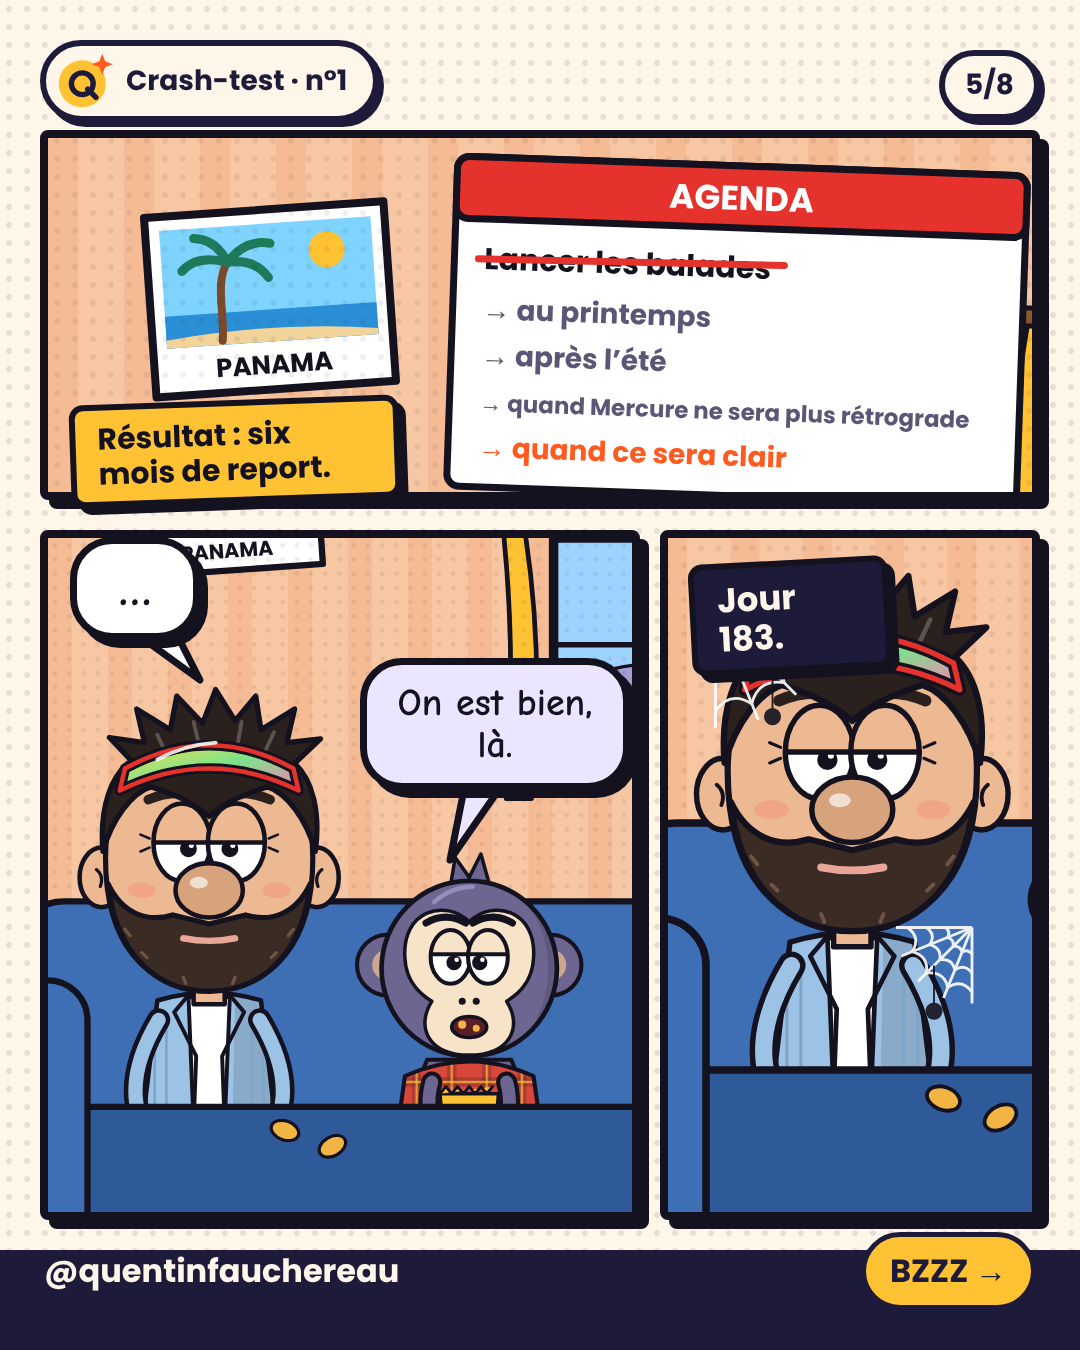
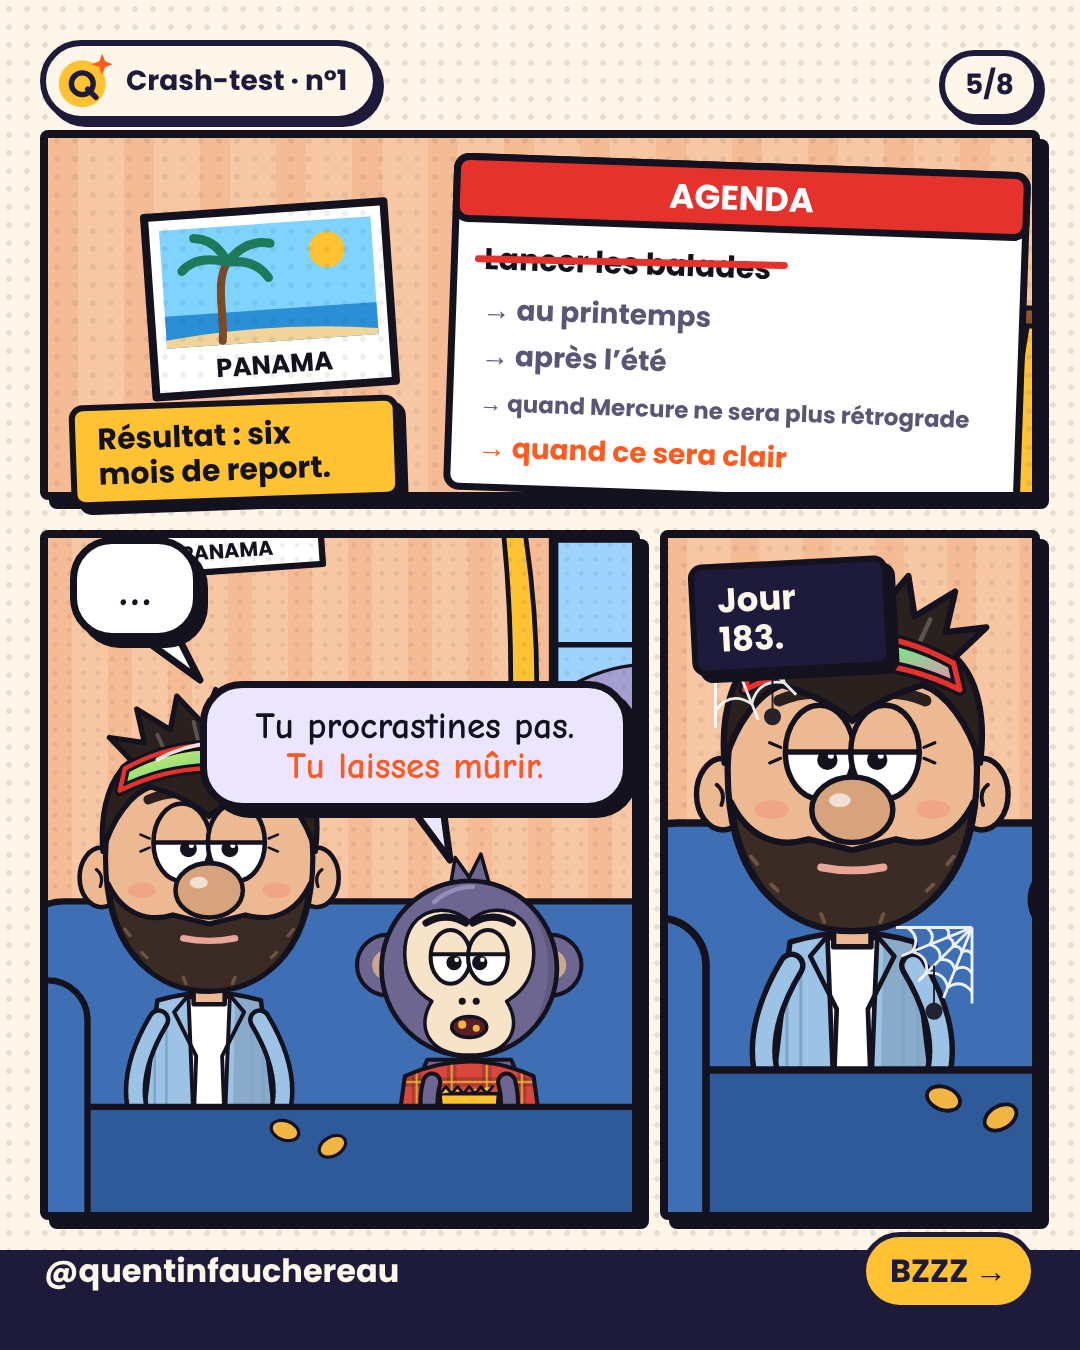
Aiguise Brutus et prépare la publication des trois premiers carrousels
Répliques de Brutus plus tranchantes (41, 43, 45), petit texte de décor
retiré, légendes réécrites avec accroche, commentaire à épingler et
musique à ajouter dans l'app. Calendrier : 23, 26 et 29 novembre,
programmation manuelle (la musique ne s'ajoute que dans l'app).
Leviers psychologiques notés dans la bible.

Claude-Session: https://claude.ai/code/session_01Ur5KmPTCazZvb9fFnorLVu

Changed region(s): [[0.1833, 0.4667, 0.5806, 0.6533]]

diff --git a/episodes/43-radar-soupir.js b/episodes/43-radar-soupir.js
@@ -10,7 +10,7 @@ const rayonX = (cx = 224, cy = 1000, k = 1) => `<g transform="translate(${cx} ${
   <path d="M 12 -40 c -14 -20 -40 -6 -26 14 l 26 24 l 26 -24 c 14 -20 -12 -34 -26 -14 Z" fill="#E5322D" ${st(4)}/>
   <path d="M -24 60 c 20 -30 50 -10 30 10 c -20 20 -50 0 -30 -10 c 30 -20 60 10 40 20" fill="none" stroke="#C9A36A" stroke-width="9" stroke-linecap="round"/></g>`;
 const pause = (x, y, r = 90) => `<g transform="translate(${x} ${y})"><circle r="${r * 1.7}" fill="#E5322D" opacity=".18"/><circle r="${r}" fill="#E5322D" ${st(8)}/><rect x="${-r * 0.42}" y="${-r * 0.48}" width="${r * 0.28}" height="${r * 0.96}" rx="6" fill="#fff"/><rect x="${r * 0.14}" y="${-r * 0.48}" width="${r * 0.28}" height="${r * 0.96}" rx="6" fill="#fff"/></g>`;
-const bouclier = `<path d="M -80 -90 H 80 V 10 Q 80 80 0 110 Q -80 80 -80 10 Z" fill="#9C98AE" ${st(7)}/><text y="0" text-anchor="middle" font-family="Poppins" font-weight="700" font-size="26" fill="${I}">ANTI</text><text y="32" text-anchor="middle" font-family="Poppins" font-weight="700" font-size="26" fill="${I}">MAIL</text>`;
+const bouclier = `<path d="M -80 -90 H 80 V 10 Q 80 80 0 110 Q -80 80 -80 10 Z" fill="#9C98AE" ${st(7)}/><path d="M 0 -60 V 80 M -50 0 H 50" stroke="${I}" stroke-width="8" opacity=".35"/>`;
 const envoyer = `<rect x="-100" y="-130" width="200" height="70" rx="16" fill="#E5322D" ${st(5)}/><text y="-84" text-anchor="middle" font-family="Poppins" font-weight="700" font-size="30" fill="#fff">ENVOYER</text><path d="M -110 -160 h 220 M -110 -40 h 160" stroke="#C9C3D6" stroke-width="10" stroke-linecap="round"/>`;
 const etape = (n, t, y) => `<div class="abs" style="left:48px;top:${y}px;width:984px;display:flex;gap:26px;align-items:center;background:#fff;border:7px solid ${I};border-radius:26px;box-shadow:9px 9px 0 ${I};padding:22px 28px;font-family:Poppins;font-weight:700;font-size:44px;line-height:1.1;color:${I}">
   <span style="flex:none;width:90px;height:90px;border-radius:50%;background:${C.soleil};border:6px solid ${I};display:flex;align-items:center;justify-content:center;font-size:48px">${n}</span><span>${t}</span></div>`;
@@ -56,7 +56,8 @@ module.exports = {
         <div>${so('●')} Cœur qui s’emballe</div><div>${so('●')} Souffle court et haut</div><div>${so('●')} Ventre noué</div></div>
       ${narr('C’est ton système nerveux en mode alarme. Pas un défaut.', { x: 540, y: 740, w: 460, size: 26, bg: C.creme, rot: 1 })}
       ${S(`${G.quentin({ x: 60, y: 570, arms: 'down', brows: 'sad', mouth: 'flat', eyes: { lid: 0.2 } })}${rayonX()}${G.brutus({ x: 800, y: 900, s: 0.46, arms: 'hold', hold: bouclier, casque: true, mouth: 'flat', brows: 'angry', eyes: { px: -6 } })}`)}
-      ${ono('BOUM BOUM', { x: 290, y: 840, size: 50, rot: -8, fill: '#E5322D' })}`),
+      ${ono('BOUM BOUM', { x: 290, y: 840, size: 50, rot: -8, fill: '#E5322D' })}
+      ${bulle({ x: 400, yb: 1150, w: 400, who: 'b', size: 32, to: tb({ x: 800, y: 900, s: 0.46 }), text: 'Un mail. <b>Le prédateur n°1 de la savane.</b>' })}`),
 
     // 5 — La fiche (à enregistrer)
     s(5, 'On essaie ? →', `<div class="abs" style="inset:0;background:${C.creme}"></div>${G.dots(0.1)}

diff --git a/episodes/41-crash-balade-fantome.js b/episodes/41-crash-balade-fantome.js
@@ -81,7 +81,7 @@ module.exports = {
       ])}
       ${narr('Résultat : six mois de report.', { x: 70, y: 400, w: 330, size: 30, rot: -2 })}
       ${bulle({ x: 70, yb: 640, w: 130, size: 50, to: [200, 680], text: '…' })}
-      ${bulle({ x: 360, yb: 790, w: 270, size: 38, who: 'b', to: [450, 860], text: 'On est bien, là.' })}
+      ${bulle({ x: 200, yb: 810, w: 430, size: 37, who: 'b', to: [450, 860], text: 'Tu procrastines pas. <b>Tu laisses mûrir.</b>' })}
       ${narr('Jour 183.', { x: 690, y: 560, w: 200, size: 34, bg: C.nuit, color: C.creme, rot: -3 })}`),
 
     // 6 — La bascule.
@@ -109,6 +109,6 @@ module.exports = {
       ${big(`On n’est jamais prêt. ${fl('On envoie quand même.')}`, 64, 222)}
       ${actions({ y: 430, mot: 'ENVOYÉ', pourquoi: 'quand tu as envoyé le message que tu repousses depuis des semaines', envoie: 'l’ami qui repousse tout « au printemps »', enregistre: 'pour ton prochain report' })}
       ${S(`${G.quentin({ x: 30, y: 930, s: 0.48, arms: { l: 'hip', r: 'point' }, mouth: 'grin', eyes: { px: 8, py: -8 } })}${G.brutus({ x: 820, y: 1000, s: 0.5, arms: 'down', brows: 'sad', mouth: 'wobble', eyes: { px: -8, py: -6 }, sweat: true })}`)}
-      ${bulle({ x: 330, yb: 1110, w: 440, who: 'b', size: 32, to: tb({ x: 820, y: 1000, s: 0.5 }), text: 'J’ai ajouté « désolé du dérangement ».' })}`),
+      ${bulle({ x: 330, yb: 1110, w: 440, who: 'b', size: 32, to: tb({ x: 820, y: 1000, s: 0.5 }), text: 'J’ai ajouté « désolé du dérangement ». <b>Deux fois.</b>' })}`),
   ],
 };

diff --git a/episodes/45-fable-meunier.js b/episodes/45-fable-meunier.js
@@ -29,7 +29,7 @@ module.exports = {
       ${S(`${G.quentin({ ...Q, arms: { l: 'down', r: 'phone' }, mouth: 'grin', eyes: { px: 8, py: 10 } })}${ane()}${G.brutus({ ...B, arms: 'hip', mouth: 'wobble', brows: 'sad', eyes: { px: -8 } })}`)}
       ${G.avantPlan()}
       ${bulle({ x: 260, yb: 520, w: 440, size: 38, to: tq(Q, 40), text: 'On vend l’âne. <b>Et je poste une story.</b>' })}
-      ${bulle({ x: 740, yb: 650, w: 290, who: 'b', size: 38, to: tb(B), text: 'Je le sens mal.' })}`),
+      ${bulle({ x: 650, yb: 650, w: 390, who: 'b', size: 34, to: tb(B), text: 'Une story ? <b>Avec ta tête du matin ?</b>' })}`),
 
     // 3
     s(3, 'Brutus monte →', `${G.saleve2()}
@@ -68,7 +68,7 @@ module.exports = {
       ${com({ y: 390, w: 600, pseudo: '@coach_millionnaire', text: `Mon programme règle ça aussi.`, likes: '1', color: C.soleil, rot: -1, size: 28 })}
       ${S(porter())}
       ${G.avantPlan()}
-      ${bulle({ x: 690, yb: 660, w: 350, who: 'b', size: 34, to: tb({ x: 700, y: 680, s: 0.68 }), text: 'On aurait dû rester <b>sans réseau.</b>' })}`),
+      ${bulle({ x: 690, yb: 660, w: 350, who: 'b', size: 34, to: tb({ x: 700, y: 680, s: 0.68 }), text: 'Bravo. Enfin unanimes : <b>on est ridicules.</b>' })}`),
 
     // 8 — Action
     s(8, 'Partage-le ↗', `${G.saleve2({ mood: 'or' })}

diff --git a/carrousels/41-crash-balade-fantome/legende.md b/carrousels/41-crash-balade-fantome/legende.md
@@ -1,17 +1,31 @@
 # Crash-test n°1 — « La balade fantôme »
 
-Ce singe m'a fait perdre six mois. Et je l'ai laissé faire.
+Ce singe m'a fait perdre 6 mois. Et le pire, c'est que je lui ai dit merci.
 
-J'ai créé une balade pour débloquer les gens. Puis je l'ai repoussée « au printemps », « après l'été », « quand ce sera plus clair ». Brutus, mon chimpanzé intérieur, avait toujours une excellente raison : la pluie, l'inconnu, un écureuil louche.
+Lui, c'est Brutus. Mon chimpanzé intérieur. Garde du corps. Parano. Expert en excuses.
 
-Il ne voulait pas me saboter. Il voulait que rien ne change.
+J'ai créé une balade pour aider les gens à se débloquer.
+Puis je l'ai repoussée.
+« Au printemps. »
+« Après l'été. »
+« Quand ce sera plus clair. »
 
-👉 Commente ENVOYÉ quand tu as envoyé le message que tu repousses depuis des semaines.
+Spoiler : ce n'est jamais plus clair. On appelle ça « laisser mûrir ». Brutus appelle ça « gagner ».
+
+Ce qu'il m'a fallu six mois pour comprendre : Brutus ne veut pas que j'échoue. Il veut que rien ne change. Pour lui, un mardi différent, c'est un tigre à dents de sabre.
+
+👉 Commente ENVOYÉ quand tu as envoyé LE message que tu repousses depuis des semaines. Sans « désolé du dérangement ».
 📩 Envoie ce carrousel à l'ami qui repousse tout « au printemps ».
+🔖 Enregistre-le pour ton prochain report.
 
-La balade déclic : 1 h 30 à la Maison du Salève. Envoie-moi DÉCLIC en message.
+Et toi, ton Brutus te fait repousser quoi en ce moment ?
 
-#oser #procrastination #creation #systemenerveux #saleve #geneve
+#procrastination #oser #passeralaction #confianceensoi #entrepreneur #creation #bd #saleve
 
 ## Commentaire à épingler
-Moi, c'était le lancement des balades. Et toi, c'est quoi le truc que ton Brutus te fait repousser ? 👇
+Moi, c'était le lancement de mes balades. 183 jours. Et toi, c'est quoi le truc que ton Brutus te fait repousser ? 👇
+
+## Musique (à ajouter dans l'app, volume bas)
+Ambiance : comique, sournoise, pizzicato (le pas feutré de quelqu'un qui évite quelque chose).
+1. « The Pink Panther Theme » — Henry Mancini (si elle est proposée sur ton compte).
+2. Sinon, cherche « sneaky » ou « pizzicato » dans la bibliothèque musicale.

diff --git a/carrousels/43-radar-soupir/legende.md b/carrousels/43-radar-soupir/legende.md
@@ -2,16 +2,32 @@
 
 Ton corps a un bouton pause. Personne ne te l'a jamais montré.
 
-Ton cœur s'emballe pour un mail. Ton corps se prépare à fuir un lion. Ce n'est pas un défaut : c'est ton système nerveux en mode alarme.
+Ton cœur bat à 140. Pour un mail.
+Ton ventre se noue. Pour un message.
+Ton souffle remonte dans la gorge. Pour un appel.
 
-Le soupir cyclique : inspire par le nez, ré-inspire un petit coup par-dessus, puis expire très lentement par la bouche. Cinq minutes. Une étude de Stanford (2023, 108 participants) a montré que cinq minutes par jour amélioraient l'humeur et ralentissaient la respiration. Prometteur, pas magique.
+Ce n'est pas un défaut. C'est ton système nerveux qui passe en mode alarme : il se prépare à fuir un lion. Brutus, mon chimpanzé intérieur, appelle ça « un mail ».
+
+Le bouton pause, c'est le soupir cyclique :
+1. Inspire par le nez.
+2. Ré-inspire un petit coup par-dessus.
+3. Expire très lentement par la bouche.
+Cinq minutes, juste avant de te lancer.
+
+Une étude de Stanford (2023, 108 participants) a montré que cinq minutes par jour de ce soupir amélioraient l'humeur et ralentissaient la respiration. Prometteur, pas magique.
 
 👉 Commente SOUFFLE et je t'envoie la fiche de l'exercice en message privé.
 🔖 Enregistre ce carrousel pour ton prochain jour J.
+📩 Envoie-le à l'ami qui stresse avant chaque mail.
 
 Source : Balban et al., Cell Reports Medicine, 2023.
 
-#systemenerveux #respiration #stress #oser #creation
+#systemenerveux #stress #anxiete #respiration #oser #passeralaction #bd
 
 ## Commentaire à épingler
-Ça marche aussi avant un appel, un entretien, ou un message à ton ex. Tu l'utiliserais avant quoi, toi ? 👇
+Ça marche aussi avant un appel, un entretien, ou un message à ton ex. Toi, tu l'utiliserais avant quoi ? 👇
+
+## Musique (à ajouter dans l'app, volume bas)
+Ambiance : calme, lente, qui donne envie de respirer.
+1. « Weightless » — Marconi Union, si elle est proposée sur ton compte.
+2. Sinon, cherche « calm piano » ou « ambient » dans la bibliothèque musicale.

diff --git a/carrousels/45-fable-meunier/legende.md b/carrousels/45-fable-meunier/legende.md
@@ -2,16 +2,27 @@
 
 On a fini par porter l'âne. À cause des commentaires.
 
-En 1668, La Fontaine avait déjà tout prévu. Tu marches : nigaud. Tu montes sur l'âne : ingrat. Tu fais monter l'autre : pauvre enfant. Vous montez à deux : signalé. Vous portez l'âne : tout le monde rit. Et il y a toujours un coach pour te vendre un programme à 997 €.
+Tu marches à pied : « Nigaud. »
+Tu montes sur l'âne : « Ingrat. »
+Tu fais monter l'autre : « Pauvre enfant. »
+Vous montez à deux : « Signalé. »
+Vous portez l'âne : tout le monde rit.
+Et il y a toujours un coach pour te vendre un programme à 997 €.
 
-« Les gens en parleront, n'en doutez nullement. » Alors crée pour toi.
+La Fontaine l'avait écrit en 1668 : « Les gens en parleront, n'en doutez nullement. »
 
-👉 Commente MONTRÉ quand tu as montré une création sans demander l'avis de personne.
-📩 Envoie-le à l'ami qui attend que tout le monde soit d'accord.
+Donc la question n'est pas « qu'est-ce qu'ils vont dire ? ». Ils vont dire quelque chose, c'est garanti. La question, c'est : est-ce que toi, tu es fier de ce que tu fais ?
 
-Source : Jean de La Fontaine, Fables, livre III, 1.
+👉 Commente MONTRÉ quand tu as montré une de tes créations sans demander l'avis de personne.
+📩 Envoie-le à l'ami qui attend que tout le monde soit d'accord pour se lancer.
+🔖 Enregistre-le pour le prochain commentaire de tata Monique.
 
-#lafontaine #fable #commentaires #oser #creation
+#regarddesautres #oser #lafontaine #fable #confianceensoi #creation #bd #humour
 
 ## Commentaire à épingler
 Le pire commentaire qu'on t'ait fait sur un projet ? Je commence : « C'est pas un vrai métier. » 👇
+
+## Musique (à ajouter dans l'app, volume bas)
+Ambiance : course-poursuite comique qui s'emballe (l'escalade absurde jusqu'à porter l'âne).
+1. « Yakety Sax » — Boots Randolph (la musique des poursuites de Benny Hill), si elle est proposée sur ton compte.
+2. Sinon, cherche « comedy chase » ou « funny » dans la bibliothèque musicale.

diff --git a/BIBLE.md b/BIBLE.md
@@ -74,6 +74,19 @@ Règles de lisibilité vidéo : légendes géantes au même endroit, mot par mot
 
 Voix : babil de dessin animé synthétisé (`anim/babil.js`). Version supérieure : les répliques enregistrées par Quentin (voix de Brutus = la sienne, montée dans les aigus).
 
+## Brutus sniper (22 novembre)
+
+Brutus ne crie pas, il **tire** : une réplique courte, taquine, qui vise juste et touche une excuse qu'on se raconte tous.
+Exemples validés : « Je protège les gens. De toi. » · « Tu procrastines pas. Tu laisses mûrir. » · « Une story ? Avec ta tête du matin ? » · « Bravo. Enfin unanimes : on est ridicules. » · « Un mail. Le prédateur n°1 de la savane. »
+
+## Les 5 leviers psychologiques de chaque carrousel
+
+1. **Le miroir hyper-précis** : un détail ultra concret (« Mercure est rétrograde », « désolé du dérangement ») fait dire « c'est moi ça » mieux qu'une généralité.
+2. **La boucle ouverte** : la couverture pose une question sans y répondre (« Qui est ce singe ? »), on swipe pour la fermer.
+3. **L'escalade en 3** : trois temps de plus en plus absurdes, puis la chute.
+4. **La violation bénigne** : Brutus dit tout haut l'excuse qu'on se cache ; c'est assez vrai pour piquer, assez absurde pour faire rire.
+5. **La fin qui reste** : on finit sur l'émotion la plus forte et un geste simple (un mot à commenter), pas sur une leçon.
+
 ## Catalogue des formats (7 planches chacun, style pop franco-belge)
 
 | Format | Planches | Statut |
